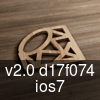
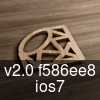
Fixups for iOS7

Changed region(s): [[0.03, 0.63, 0.96, 0.78]]

diff --git a/files/lib/styles/base_leather.rb b/files/lib/styles/base_leather.rb
@@ -6,9 +6,10 @@ Teacup::Stylesheet.new :base_leather do
   style UIView,
     backgroundColor: 'base_leather/background'.uicolor,
     nav_background: {
-      normal: 'base_leather/custom_nav',
+      normal: 'base_leather/ios7_header',
       landscape: 'base_leather/custom_landscape_nav'
-      }
+      },
+    tintColor: @dark_color
 
   style :custom_label,
     text: 'App Stuff!',
@@ -40,7 +41,7 @@ Teacup::Stylesheet.new :base_leather do
   style :custom_switch,
     onImage: 'base_leather/switch'.uiimage,
     offImage: 'base_leather/switch_off'.uiimage,
-    on: true
+    on: false 
 
   style :color_button,
     backgroundColor: @mid_color,

diff --git a/files/app/app_delegate.rb b/files/app/app_delegate.rb
@@ -6,7 +6,7 @@ class AppDelegate
 
     #iOS7 stuffs
     UIApplication.sharedApplication.statusBar.alpha = 0
-    @window.tintColor = 0x4d3e33.uicolor
+    @window.tintColor = 0xc7a776.uicolor
 
 
     myNavController = RootController.alloc.init
